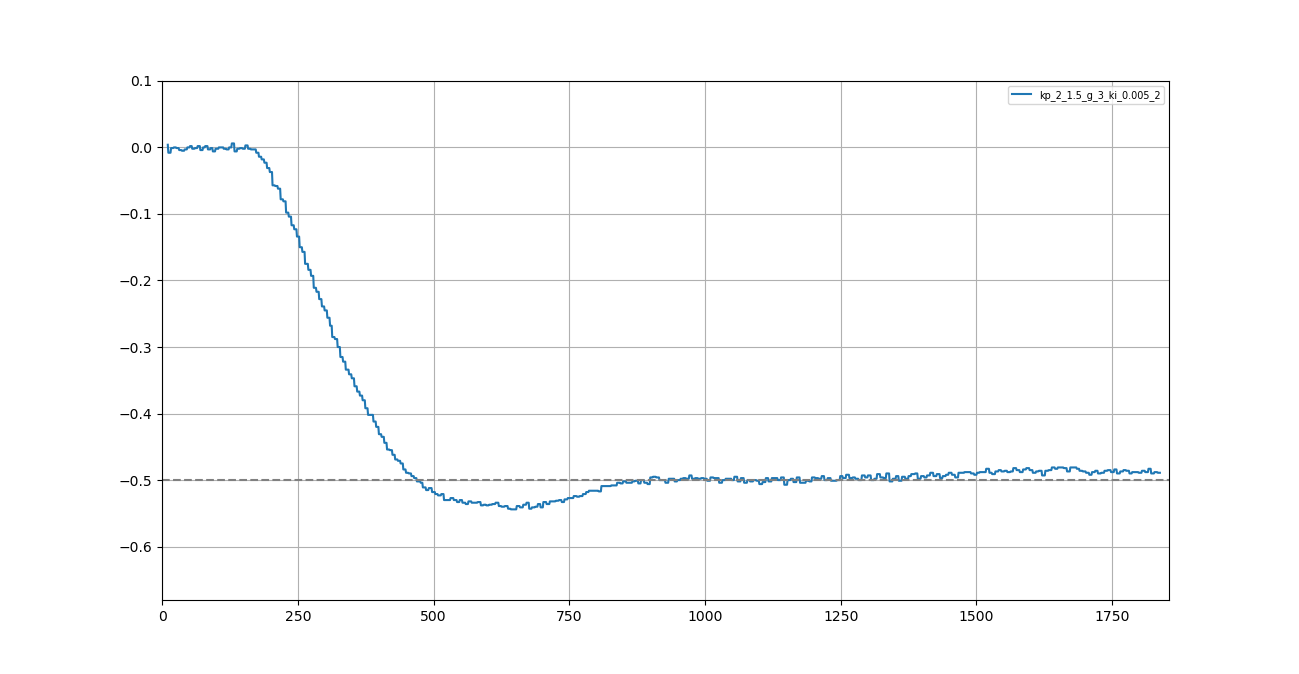
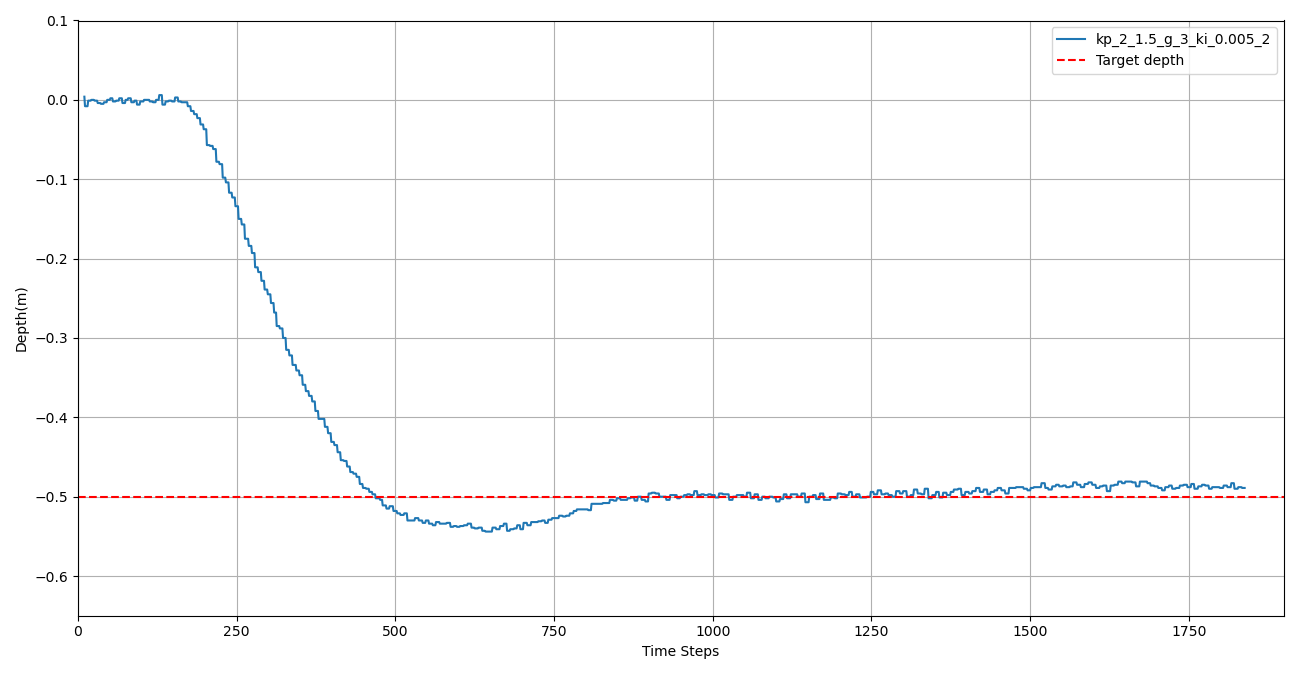
done depth plotting

diff --git a/bags/plot_all_csv_single.py b/bags/plot_all_csv_single.py
@@ -1,0 +1,49 @@
+import os
+import pandas as pd
+import matplotlib.pyplot as plt
+import numpy as np
+
+### Set your path to the folder containing the .csv files
+PATH = './bags/' # Use your path
+
+### Fetch all files in path
+fileNames = os.listdir(PATH)
+
+### Filter file name list for files ending with .csv
+fileNames = [file for file in fileNames if '.csv' in file]
+
+# start index
+idx = 0
+### Loop over all files
+for file in fileNames:
+
+    if file.find("0.005_no_wall_2") == -1:
+        continue
+
+    ### Read .csv file and append to list
+    df = pd.read_csv(PATH + file, index_col = None)
+    # bias = np.average (np.array(df['field.data'].tolist())[:5])
+    bias = -0.1
+    # print (bias)
+    Y = np.array(df['field.data'].tolist()) - bias
+    X = (np.arange(len(Y)) + idx + 10)
+    idx += len(Y) + 10
+
+    # print(len(X))
+    # print(len(Y))
+    # print(idx)
+    # break
+    
+    ### Create line for every file
+    plt.plot( X, Y, label=file.replace("depth_control_12v_", "").replace(".csv", "").replace("_no_wall", "").replace("kp_p", "kp"))
+    # plt.plot( X, Y, label=file.replace("depth_control_12v_", "").replace(".csv", "")+"-bias-"+str(bias)[:5])
+    plt.rc('legend',fontsize='medium')
+    # break
+
+### Generate the plot
+plt.legend(loc="best")
+# plt.xlim(0, 37250)
+# plt.ylim(-0.68, 0.5)
+plt.axhline(-0.5,color='grey',linestyle="--") # y = 0
+plt.grid()
+plt.show()
